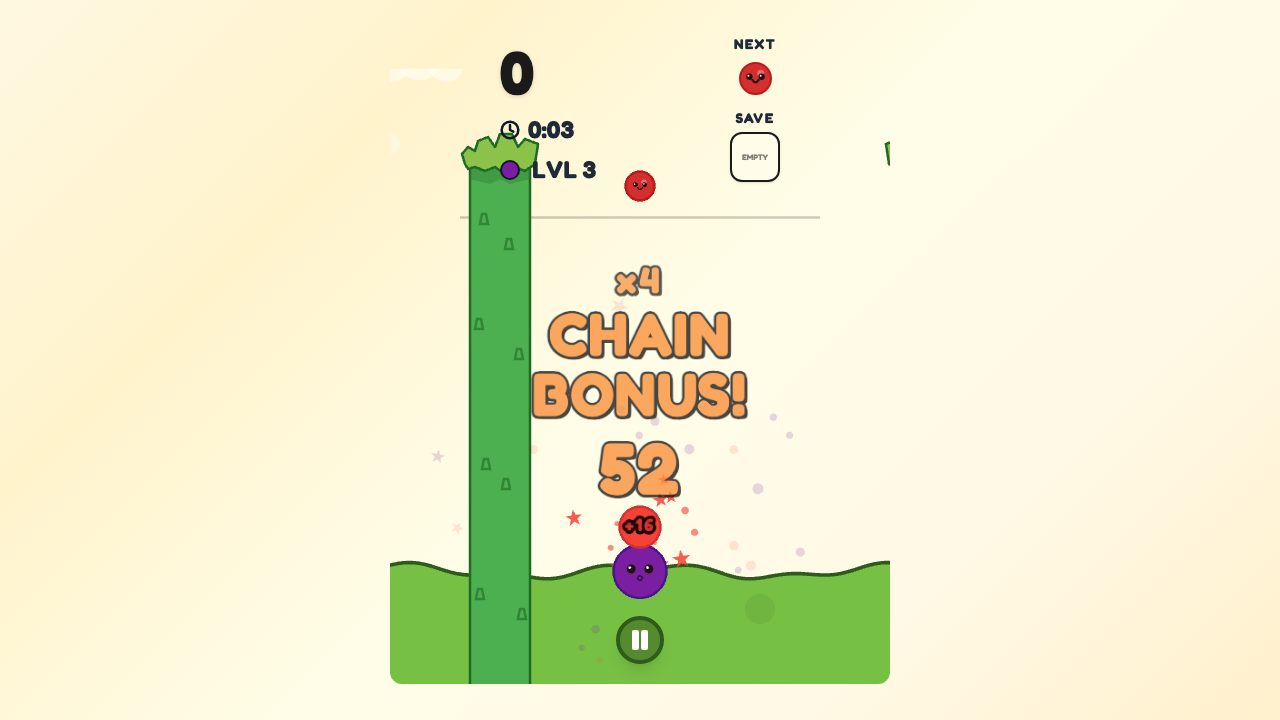
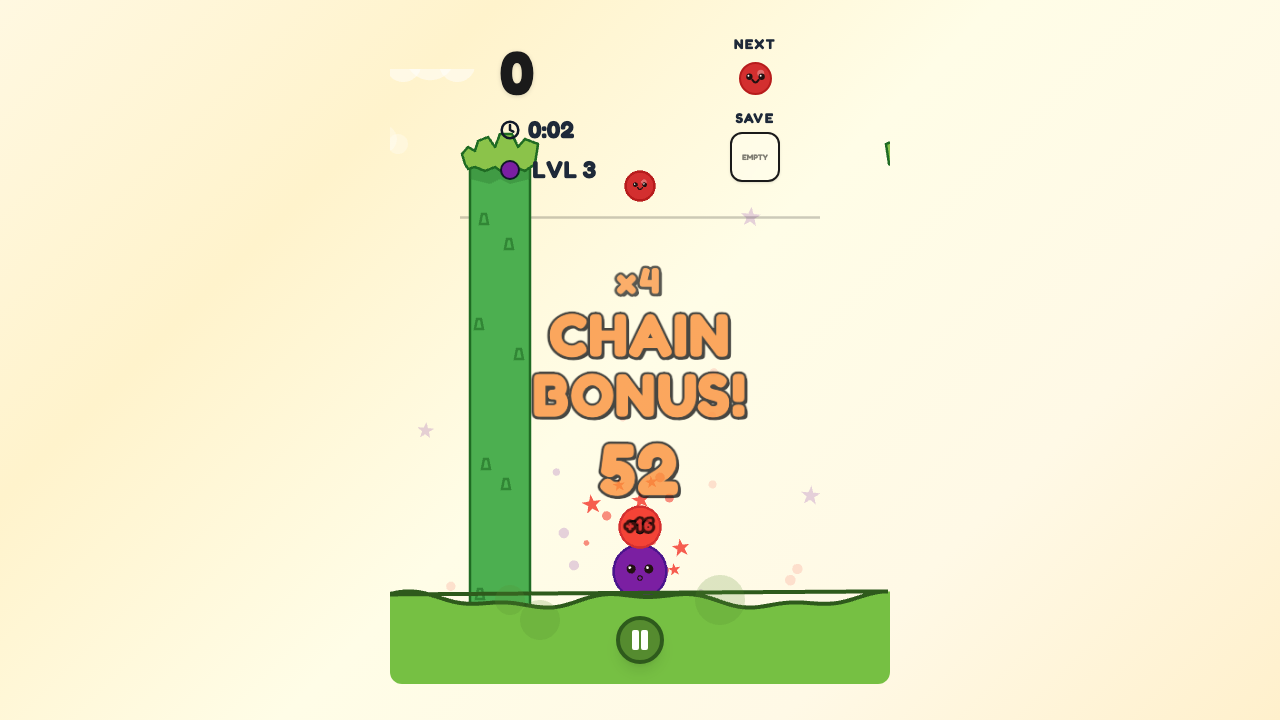
fix: Move GroundRenderer to screen-space (Pixi stage) matching original GroundCanvas behavior

diff --git a/services/renderers/GroundRenderer.ts b/services/renderers/GroundRenderer.ts
@@ -1,78 +1,100 @@
 import * as PIXI from 'pixi.js';
 
 /**
- * Renders the wavy ground floor in Pixi.
- * Replaces GroundCanvas.tsx — draws in virtual coordinates within the game container.
- * Extends beyond game area to cover screen edges.
+ * Renders the wavy ground floor in Pixi screen-space.
+ * Replaces GroundCanvas.tsx — draws in screen coordinates on the Pixi stage.
+ * Extends beyond game area to cover screen edges, matching original behavior.
  */
 export class GroundRenderer {
     private graphics: PIXI.Graphics;
+    private container: PIXI.Container;
 
-    constructor(parent: PIXI.Container) {
+    constructor(stage: PIXI.Container) {
+        this.container = new PIXI.Container();
         this.graphics = new PIXI.Graphics();
-        // Ground sits below all game objects
-        this.graphics.zIndex = -100;
-        parent.addChild(this.graphics);
+        this.container.addChild(this.graphics);
+        this.container.zIndex = 5; // Same z-index as original GroundCanvas
+        stage.addChild(this.container);
     }
 
     /**
-     * Calculate wavy floor Y offset (matches PhysicsSystem LUT exactly).
-     * @param virtualX X position in virtual coordinates
+     * Draw the ground floor in screen coordinates.
+     * @param viewWidth Viewport width in CSS pixels
+     * @param viewHeight Viewport height in CSS pixels
+     * @param gameAreaWidth Game area width in CSS pixels
+     * @param gameAreaHeight Game area height in CSS pixels
+     * @param containerTop Container Y position on screen (CSS pixels)
+     * @param containerLeft Container X position on screen (CSS pixels)
      */
-    private getFloorOffset(virtualX: number): number {
-        return Math.sin(virtualX * 0.015) * 10 + Math.cos(virtualX * 0.04) * 5;
-    }
-
-    /**
-     * Draw the ground floor.
-     * @param vWidth Virtual width of the game area (600)
-     * @param vHeight Virtual height of the game area (750)
-     * @param screenPixelWidth Actual screen width in CSS pixels
-     * @param scaleFactor Current scale factor (screen pixels per virtual unit)
-     * @param containerX X position of the container on screen
-     */
-    draw(vWidth: number, vHeight: number, screenPixelWidth: number, scaleFactor: number, containerX: number): void {
+    draw(viewWidth: number, viewHeight: number, gameAreaWidth: number, gameAreaHeight: number, containerTop: number, containerLeft: number): void {
         this.graphics.clear();
 
-        // How many virtual units the screen extends beyond the game area on each side
-        const screenVWidth = screenPixelWidth / scaleFactor;
-        const gameCenter = vWidth / 2;
-        const startX = gameCenter - (screenVWidth / 2);
-        const endX = gameCenter + (screenVWidth / 2);
+        const V_WIDTH = 600;
+        const scaleFactor = gameAreaWidth / V_WIDTH;
 
-        // Floor base Y in virtual coordinates (matches RenderSystem.getFloorY)
-        const baseY = vHeight - 60;
+        // Game floor position in viewport coordinates
+        // Original: virtualFloorOffset = 15, gameFloorOffset = 15 * scaleFactor
+        const virtualFloorOffset = 15;
+        const gameFloorOffset = virtualFloorOffset * scaleFactor;
+        const gameFloorY = containerTop + gameAreaHeight - gameFloorOffset;
 
-        // Bottom of the fill — extend well below the game area
-        const bottomY = baseY + 200;
+        // Helper to get wave Y at screen X
+        const getWaveY = (screenX: number): number => {
+            const visualRelX = screenX - containerLeft;
+            const virtualX = visualRelX / scaleFactor;
+            const virtualWaveHeight = Math.sin(virtualX * 0.015) * 10 + Math.cos(virtualX * 0.04) * 5;
+            const visualWaveHeight = virtualWaveHeight * scaleFactor;
+            return gameFloorY + visualWaveHeight;
+        };
 
         // Build the ground shape
         const step = 5;
         const points: number[] = [];
 
         // Start at bottom-left
-        points.push(startX, bottomY);
-        // Go up to wave start
-        points.push(startX, baseY + this.getFloorOffset(startX));
+        points.push(0, viewHeight);
+        // Go up to wave start at left edge
+        points.push(0, getWaveY(0));
 
-        // Draw wave across the full screen width
-        for (let x = startX; x <= endX; x += step) {
-            points.push(x, baseY + this.getFloorOffset(x));
+        // Draw wave across the full viewport width
+        for (let x = 0; x <= viewWidth; x += step) {
+            points.push(x, getWaveY(x));
         }
 
         // Close the shape at bottom-right
-        points.push(endX, baseY + this.getFloorOffset(endX));
-        points.push(endX, bottomY);
+        points.push(viewWidth, getWaveY(viewWidth));
+        points.push(viewWidth, viewHeight);
 
         this.graphics.poly(points);
         this.graphics.fill({ color: 0x76C043 });
-        this.graphics.stroke({ width: 6, color: 0x2E5A1C, alignment: 0 });
 
-        // Decorative circles (matching original GroundCanvas)
-        this.graphics.circle(50, vHeight, 15);
-        this.graphics.circle(80, vHeight + 20, 20);
-        this.graphics.fill({ color: 0x558B2F, alpha: 0.2 });
-        this.graphics.circle(vWidth - 100, vHeight, 25);
-        this.graphics.fill({ color: 0x558B2F, alpha: 0.2 });
+        // Border stroke on top edge
+        const strokePoints: number[] = [];
+        for (let x = 0; x <= viewWidth; x += step) {
+            strokePoints.push(x, getWaveY(x));
+        }
+        this.graphics.poly(strokePoints);
+        this.graphics.stroke({ width: 4, color: 0x2E5A1C });
+
+        // Decorative circles
+        const addDecoration = (x: number, y: number, radius: number, alpha: number = 0.2) => {
+            this.graphics.circle(x, y, radius);
+            this.graphics.fill({ color: 0x558B2F, alpha });
+        };
+
+        // Left decorations (relative to game area)
+        addDecoration(containerLeft + 50, gameFloorY, 15);
+        addDecoration(containerLeft + 80, gameFloorY + 20, 20);
+
+        // Right decorations
+        addDecoration(containerLeft + gameAreaWidth - 100, gameFloorY, 25);
+
+        // Extra decorations for extended areas
+        if (containerLeft > 100) {
+            addDecoration(50, gameFloorY + 10, 18);
+        }
+        if (viewWidth - (containerLeft + gameAreaWidth) > 100) {
+            addDecoration(viewWidth - 50, gameFloorY + 10, 18);
+        }
     }
 }

diff --git a/services/GameEngine.ts b/services/GameEngine.ts
@@ -12,6 +12,7 @@ import { RenderSystem } from './systems/RenderSystem';
 import { ScoreController } from './systems/ScoreController';
 import { CloudRenderer } from './renderers/CloudRenderer';
 import { WallRenderer } from './renderers/WallRenderer';
+import { GroundRenderer } from './renderers/GroundRenderer';
 
 // --- Virtual Resolution ---
 // Aspect Ratio: 4:5
@@ -32,11 +33,14 @@ export class GameEngine {
     scoreController: ScoreController;
     private cloudRenderer: CloudRenderer | null = null;
     private wallRenderer: WallRenderer | null = null;
-    // Screen-space coordinates for wall/cloud renderers
+    private groundRenderer: GroundRenderer | null = null;
+    // Screen-space coordinates for wall/cloud/ground renderers
     private _screenWidth = 0;
     private _screenHeight = 0;
     private _containerTop = 0;
     private _containerLeft = 0;
+    private _gameAreaWidth = 0;
+    private _gameAreaHeight = 0;
 
     // Game State
     fruits: Particle[] = [];
@@ -321,6 +325,9 @@ export class GameEngine {
         // Initialize Wall Renderer (screen-space, on the stage)
         this.wallRenderer = new WallRenderer(this.app.stage);
 
+        // Initialize Ground Renderer (screen-space, on the stage)
+        this.groundRenderer = new GroundRenderer(this.app.stage);
+
         // Re-run resize to update screen-space renderers now that they exist
         this.handleResize();
 
@@ -415,9 +422,25 @@ export class GameEngine {
         // Redraw static elements
         this.renderSystem.drawDangerLine(this.width, this.height, this.isOverLimit);
         // Redraw environment (ground + walls)
+        if (this.groundRenderer) {
+            this.groundRenderer.draw(
+                this._screenWidth, this._screenHeight,
+                this._gameAreaWidth, this._gameAreaHeight,
+                this._containerTop, this._containerLeft
+            );
+        }
+        if (this.wallRenderer) {
+            this.wallRenderer.draw(
+                this._screenWidth, this._screenHeight,
+                this._containerTop, this._containerLeft,
+                this._screenHeight
+            );
+        }
         const actualW = this.app.screen.width;
         const actualH = this.app.screen.height;
         this.renderSystem.updateEnvironment(actualW, actualH, V_WIDTH, V_HEIGHT, this.scaleFactor);
+        this.groundRenderer?.draw(actualW, actualH, this._gameAreaWidth, this._gameAreaHeight, this._containerTop, this._containerLeft);
+        this.wallRenderer?.draw(actualW, actualH, this._containerTop, this._containerLeft, actualH);
 
         return true;
     }
@@ -442,19 +465,21 @@ export class GameEngine {
 
         this.container.position.set(xOffset, yOffset);
 
-        // Track screen-space coordinates for wall/cloud renderers
+        // Track screen-space coordinates for wall/cloud/ground renderers
         this._screenWidth = actualW;
         this._screenHeight = actualH;
         this._containerTop = yOffset;
         this._containerLeft = xOffset;
+        this._gameAreaWidth = V_WIDTH * this.scaleFactor;
+        this._gameAreaHeight = V_HEIGHT * this.scaleFactor;
 
-        // Update screen-space renderers (walls, clouds)
+        // Update screen-space renderers (ground, walls, clouds)
+        if (this.groundRenderer) {
+            this.groundRenderer.draw(actualW, actualH, this._gameAreaWidth, this._gameAreaHeight, yOffset, xOffset);
+        }
         if (this.wallRenderer) {
             this.wallRenderer.draw(actualW, actualH, yOffset, xOffset, actualH);
         }
-
-        // Update virtual-space ground renderer (inside the game container)
-        this.renderSystem.updateEnvironment(actualW, actualH, V_WIDTH, V_HEIGHT, this.scaleFactor);
     }
 
     reset() {

diff --git a/services/systems/RenderSystem.ts b/services/systems/RenderSystem.ts
@@ -25,13 +25,7 @@ export class RenderSystem {
     private _lastDangerActive: boolean | null = null;
 
     // Pixi renderers (replacing separate 2D canvases)
-    private groundRenderer: GroundRenderer | null = null;
-    private wallRenderer: WallRenderer | null = null;
     private effectRenderer: EffectRenderer | null = null;
-
-    // Screen dimensions for ground/wall rendering
-    private _screenWidth = 0;
-    private _screenHeight = 0;
 
     constructor() {
         this.dangerLine = new PIXI.Graphics();
@@ -42,8 +36,6 @@ export class RenderSystem {
         this.container = container;
 
         // Initialize new Pixi-based renderers
-        this.groundRenderer = new GroundRenderer(container);
-        this.wallRenderer = new WallRenderer(container);
         this.effectRenderer = new EffectRenderer(container);
 
         container.addChild(this.dangerLine);
@@ -53,18 +45,11 @@ export class RenderSystem {
 
     /**
      * Called when screen dimensions change (from GameEngine.handleResize).
+     * This method is now a no-op since ground/wall renderers are managed by GameEngine.
+     * Kept for backward compatibility.
      */
-    updateEnvironment(screenWidth: number, screenHeight: number, vWidth: number, vHeight: number, scaleFactor: number): void {
-        this._screenWidth = screenWidth;
-        this._screenHeight = screenHeight;
-
-        // Redraw ground and walls with new dimensions
-        if (this.groundRenderer) {
-            this.groundRenderer.draw(vWidth, vHeight, screenWidth, scaleFactor, 0);
-        }
-        if (this.wallRenderer) {
-            this.wallRenderer.draw(vHeight, scaleFactor, vWidth);
-        }
+    updateEnvironment(_screenWidth: number, _screenHeight: number, _vWidth: number, _vHeight: number, _scaleFactor: number): void {
+        // Ground and wall rendering is now handled directly by GameEngine
     }
 
     generateAllTextures(): Map<FruitTier, PIXI.Texture> {
@@ -175,14 +160,7 @@ export class RenderSystem {
 
                 this.reset();
 
-                // Redraw environment
-                if (this.app && this.container) {
-                    this.updateEnvironment(
-                        this._screenWidth, this._screenHeight,
-                        600, 750,
-                        this.container.scale.x
-                    );
-                }
+                // Redraw environment (ground/walls handled by GameEngine)
 
                 console.log(`[RenderSystem] Graphics refreshed. Textures count: ${this.textures.size}`);
                 return true;
